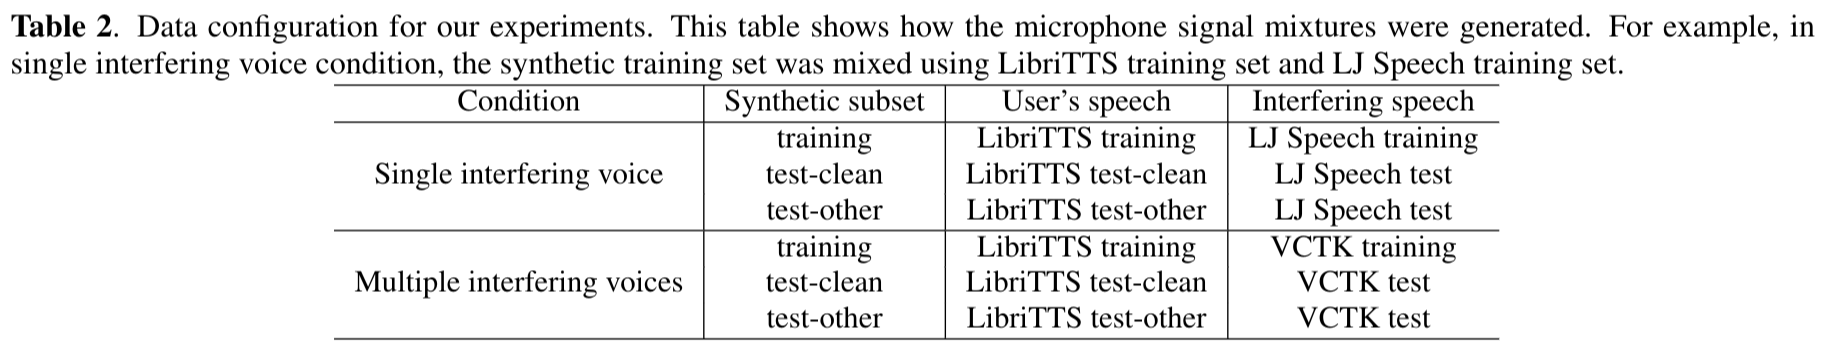
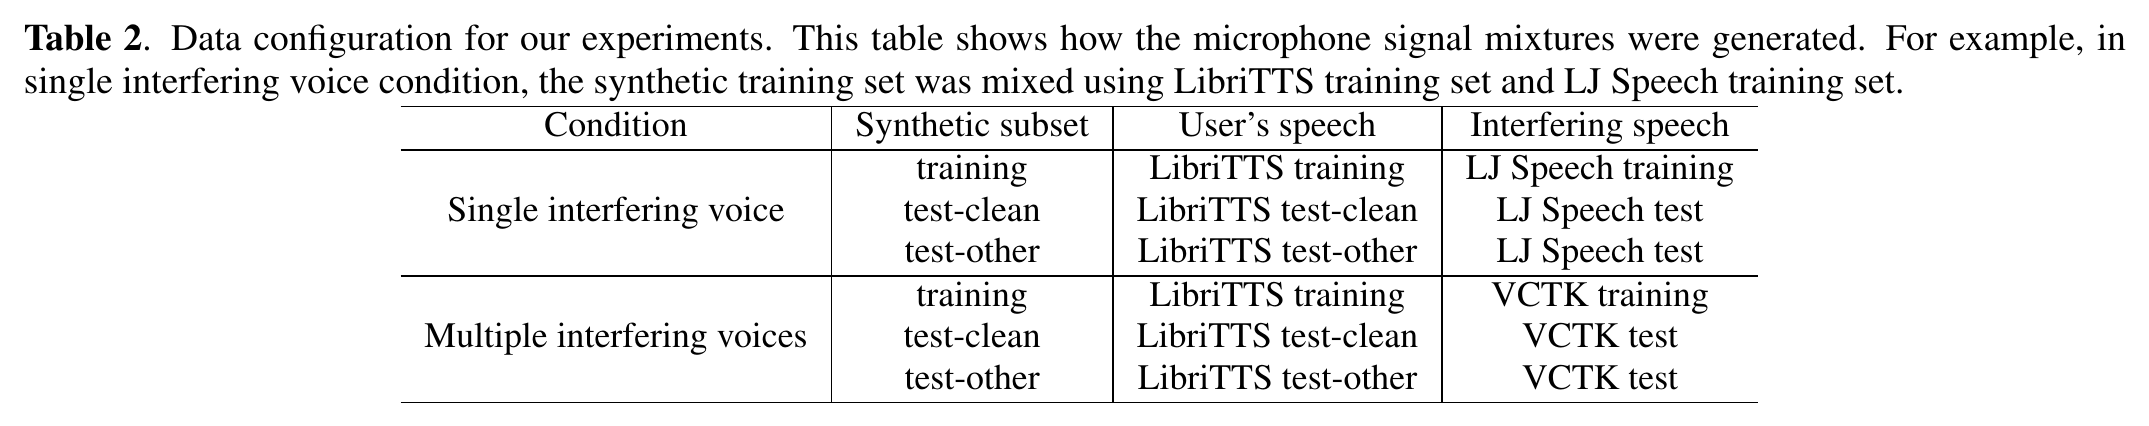
Update all figures under resources/ from arXiv:2008.06006v4

diff --git a/README.md b/README.md
@@ -36,7 +36,9 @@ sequence-to-sequence neural network, canceling the interfering TTS echo and
 reconstructing the clean user speech spectrogram and waveform.
 
 <p align="center">
-  <img src="resources/TEC_diagram.png" alt="TEC Model Architecture" width="480" />
+  <img src="resources/TEC_use_case.png" alt="Fig. 1: Acoustic echoes caused by TTS playback overlapping with user query" width="340" />
+  &nbsp;&nbsp;&nbsp;
+  <img src="resources/TEC_diagram.png" alt="Fig. 2: Diagram of the Textual Echo Cancellation framework" width="520" />
 </p>
 
 ---
@@ -57,6 +59,10 @@ reconstructing the clean user speech spectrogram and waveform.
 - **Standalone Lingvo Implementation**: Built on open-source
   [`lingvo`](https://github.com/tensorflow/lingvo) and `tensorflow`, with zero
   dependencies on proprietary internal libraries.
+
+<p align="center">
+  <img src="resources/Decoder.png" alt="Fig. 3: Diagram of the decoder with multi-source attention" width="360" />
+</p>
 - **End-to-End Pipelines & CLI Scripts**:
   - **Dataset Preparation** (`scripts/prepare_data.py`): Pairs clean speech
     (LibriTTS) with longer interfering TTS utterances (LJSpeech / VCTK),
